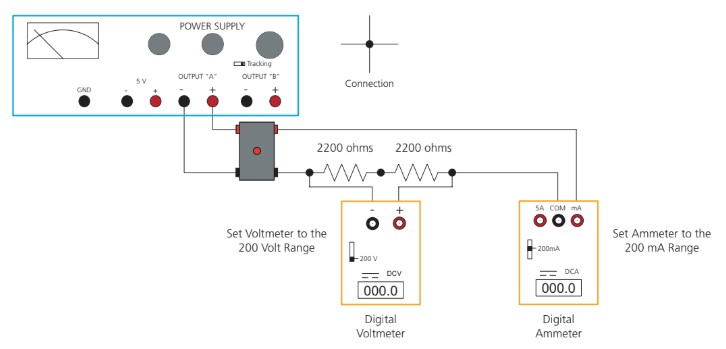
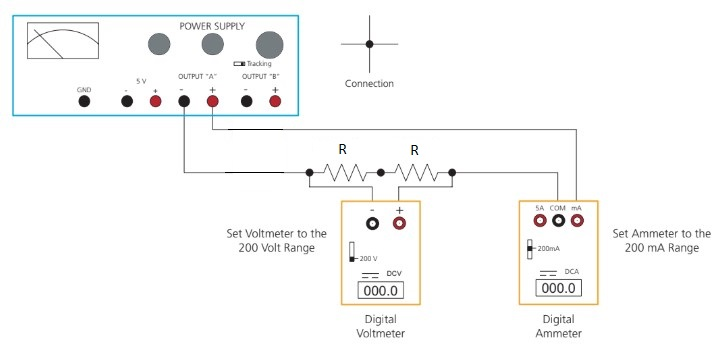
UpdatedOhmsLaw

Changed region(s): [[0.303, 0.3438, 0.3939, 0.5158], [0.5455, 0.4011, 0.6364, 0.4585], [0.4242, 0.4011, 0.5152, 0.4585]]

diff --git a/6BL/OhmsLaw/OhmsLaw.html b/6BL/OhmsLaw/OhmsLaw.html
@@ -28,11 +28,11 @@
 <li>Wire the circuit shown in Figure 1.</li>
 </ol>
 <figure>
-<img src="imgs/Figure1_Part1Circuit.jpg" alt="Figure 1: A 2200 ohm (2.2k ohm) resistor is wired in series with an ammeter and connected to the 0–20 volt power supply. The ammeter will measure the current (mA) flowing through the circuit. The voltmeter is connected across the resistor to measure the voltage drop." /><figcaption>Figure 1: A 2200 ohm (2.2k ohm) resistor is wired in series with an ammeter and connected to the 0–20 volt power supply. The ammeter will measure the current (mA) flowing through the circuit. The voltmeter is connected across the resistor to measure the voltage drop.</figcaption>
+<img src="imgs/Figure1_Part1Circuit.jpg" alt="Figure 1: A R resistor is wired in series with an ammeter and connected to the 0–20 volt power supply. The ammeter will measure the current (mA) flowing through the circuit. The voltmeter is connected across the resistor to measure the voltage drop." /><figcaption>Figure 1: A <strong>R</strong> resistor is wired in series with an ammeter and connected to the 0–20 volt power supply. The ammeter will measure the current (mA) flowing through the circuit. The voltmeter is connected across the resistor to measure the voltage drop.</figcaption>
 </figure>
 <ol start="2" type="a">
 <li><strong>Hint:</strong> Wire the circuit as a loop. Start from the negative terminal of the power supply, continue to the next circuit element, then to the next, and so on and so forth until you arrive back at the positive terminal of the power supply. <strong>Hint:</strong> Current must flow through an ammeter. It must be part of the circuit loop. <strong>Hint:</strong> Voltage is measured across circuit elements. Voltmeters are not part of the circuit loop, but must instead be placed with one terminal on each side of the element you wish to measure. <strong>Note:</strong> The gray box is a power supply protection device. If the red light is on, everything is ok. If it is off, it has broken the circuit for safety. Too much current was being drawn. <strong>Note:</strong> This will reduce the voltage somewhat, always trust the yellow meters, not the read out on the blue power supply. Otherwise, you may treat the output of the gray box as though it was the output of the power supply.</li>
-<li>The volt meter measures the voltage across the 2200Ω resistor. Treat this as your independent (x) axis in this experiment.</li>
+<li>The volt meter measures the voltage across the <strong>R</strong> resistor. Treat this as your independent (x) axis in this experiment.</li>
 <li>The ammeter measures the amount of current flowing through the series circuit. Treat this as your dependent (y) axis in this experiment.</li>
 <li>Adjust the voltage applied to the circuit with the large right-most knob on the power supply, also be sure that the mode switch is in the “tracking” position. You will measure the voltage and corresponding current for 10 data points. Your first current measurement is taken with the voltmeter reading 2V. Increment the voltage by 2 volts until you’ve reached 20 volts. Take a current reading for each voltage.</li>
 <li>Neatly tabulate your data, then plot your data with voltage as the X-axis and current as your Y-axis.</li>
@@ -77,7 +77,7 @@
 <li>Wire the circuit shown in Figure 2.</li>
 </ol>
 <figure>
-<img src="imgs/Figure2_Part2Circuit.jpg" alt="Figure 2: Two 2200 ohm (2.2k ohm) resistors are wired in series with an ammeter and connected to the 0–20 volt power supply. The ammeter will measure the current (mA) flowing through the circuit. The voltmeter is connected across the two resistors to measure the total voltage drop." /><figcaption>Figure 2: Two 2200 ohm (2.2k ohm) resistors are wired in series with an ammeter and connected to the 0–20 volt power supply. The ammeter will measure the current (mA) flowing through the circuit. The voltmeter is connected across the two resistors to measure the total voltage drop.</figcaption>
+<img src="imgs/Figure2_Part2Circuit.jpg" alt="Figure 2: Two R resistors are wired in series with an ammeter and connected to the 0–20 volt power supply. The ammeter will measure the current (mA) flowing through the circuit. The voltmeter is connected across the two resistors to measure the total voltage drop." /><figcaption>Figure 2: Two <strong>R</strong> resistors are wired in series with an ammeter and connected to the 0–20 volt power supply. The ammeter will measure the current (mA) flowing through the circuit. The voltmeter is connected across the two resistors to measure the total voltage drop.</figcaption>
 </figure>
 <ol start="2" type="a">
 <li>The voltmeter is placed across two 2.2K resistors chained end to end. The quantity measured by this device is the voltage across both resistors. Treat this as your independent (x) axis in this experiment.</li>
@@ -116,7 +116,7 @@
 <li>Wire the circuit shown in Figure 3a. Use the 5 volt supply for this part.</li>
 </ol>
 <figure>
-<img src="imgs/Figure3a_Part3Circuit.jpg" alt="Figure 3a. A 2200 ohm (2.2k ohm) resistor is wired in series with the ammeter and connected to the 5 volt fixed terminals of the power supply. The voltmeter is connected across the resistor to measure the voltage drop. The ammeter is in series with the circuit and measures total current in the circuit." /><figcaption>Figure 3a. A 2200 ohm (2.2k ohm) resistor is wired in series with the ammeter and connected to the <strong>5 volt</strong> fixed terminals of the power supply. The voltmeter is connected across the resistor to measure the voltage drop. The ammeter is in series with the circuit and measures total current in the circuit.</figcaption>
+<img src="imgs/Figure3a_Part3Circuit.jpg" alt="Figure 3a. A R resistor is wired in series with the ammeter and connected to the 5 volt fixed terminals of the power supply. The voltmeter is connected across the resistor to measure the voltage drop. The ammeter is in series with the circuit and measures total current in the circuit." /><figcaption>Figure 3a. A <strong>R</strong> resistor is wired in series with the ammeter and connected to the <strong>5 volt</strong> fixed terminals of the power supply. The voltmeter is connected across the resistor to measure the voltage drop. The ammeter is in series with the circuit and measures total current in the circuit.</figcaption>
 </figure>
 </div>
 </div>
@@ -135,7 +135,7 @@
 <li>Wire the circuit shown in Figure 3b. In a series configuration the resistors are hooked end to end with just one path for the current to flow. In Figure 3b, we put the resistors next to each other with common points at each end. The result is two separate paths for current to flow. For obvious reasons, this arrangement is referred to as parallel.</li>
 </ol>
 <figure>
-<img src="imgs/Figure3b_Part3Circuit.jpg" alt="Figure 3b. Two 2200 ohm resistors in parallel are connected in series with the ammeter and connected to the 5 volt fixed terminals of the power supply. The voltmeter is connected across the resistors to measure the voltage drop. The ammeter is in series with the circuit and measures total current in the circuit." /><figcaption>Figure 3b. Two 2200 ohm resistors in parallel are connected in series with the ammeter and connected to the <strong>5 volt</strong> fixed terminals of the power supply. The voltmeter is connected across the resistors to measure the voltage drop. The ammeter is in series with the circuit and measures total current in the circuit.</figcaption>
+<img src="imgs/Figure3b_Part3Circuit.jpg" alt="Figure 3b. Two R resistors in parallel are connected in series with the ammeter and connected to the 5 volt fixed terminals of the power supply. The voltmeter is connected across the resistors to measure the voltage drop. The ammeter is in series with the circuit and measures total current in the circuit." /><figcaption>Figure 3b. Two <strong>R</strong> resistors in parallel are connected in series with the ammeter and connected to the <strong>5 volt</strong> fixed terminals of the power supply. The voltmeter is connected across the resistors to measure the voltage drop. The ammeter is in series with the circuit and measures total current in the circuit.</figcaption>
 </figure>
 </div>
 </div>
@@ -155,7 +155,7 @@
 <li>Wire the circuit shown in Figure 3c. There are now three paths for the current to take.</li>
 </ol>
 <figure>
-<img src="imgs/Figure3c_Part3Circuit.jpg" alt="Figure 3c. Three 2200 ohm resistors in parallel are connected in series with the ammeter and connected to the 5 volt fixed terminals of the power supply. The voltmeter is connected across the resistors to measure the voltage drop. The ammeter is in series with the circuit and measures total current in the circuit." /><figcaption>Figure 3c. Three 2200 ohm resistors in parallel are connected in series with the ammeter and connected to the 5 volt fixed terminals of the power supply. The voltmeter is connected across the resistors to measure the voltage drop. The ammeter is in series with the circuit and measures total current in the circuit.</figcaption>
+<img src="imgs/Figure3c_Part3Circuit.jpg" alt="Figure 3c. Three R resistors in parallel are connected in series with the ammeter and connected to the 5 volt fixed terminals of the power supply. The voltmeter is connected across the resistors to measure the voltage drop. The ammeter is in series with the circuit and measures total current in the circuit." /><figcaption>Figure 3c. Three <strong>R</strong> resistors in parallel are connected in series with the ammeter and connected to the 5 volt fixed terminals of the power supply. The voltmeter is connected across the resistors to measure the voltage drop. The ammeter is in series with the circuit and measures total current in the circuit.</figcaption>
 </figure>
 </div>
 </div>

diff --git a/6BL/OhmsLaw/OhmsLaw.md b/6BL/OhmsLaw/OhmsLaw.md
@@ -11,7 +11,7 @@ During the nineteenth century so many advances were made in understanding the el
 ::: Exercise
 a) Wire the circuit shown in Figure 1.
 
-![Figure 1: A 2200 ohm (2.2k ohm) resistor is wired in series with an ammeter and connected to the 0–20 volt power supply. The ammeter will measure the current (mA) flowing through the circuit. The voltmeter is connected across the resistor to measure the voltage drop.](imgs/Figure1_Part1Circuit.jpg)
+![Figure 1: A **R** resistor is wired in series with an ammeter and connected to the 0–20 volt power supply. The ammeter will measure the current (mA) flowing through the circuit. The voltmeter is connected across the resistor to measure the voltage drop.](imgs/Figure1_Part1Circuit.jpg)
 
 b) **Hint:** Wire the circuit as a loop. Start from the negative terminal of the power supply, continue
 to the next circuit element, then to the next, and so on and so forth until you arrive back at
@@ -25,7 +25,7 @@ If it is off, it has broken the circuit for safety. Too much current was being d
 **Note:** This will reduce the voltage somewhat, always trust the yellow meters, not the read out on
 the blue power supply. Otherwise, you may treat the output of the gray box as though it
 was the output of the power supply.
-c) The volt meter measures the voltage across the 2200Ω resistor. Treat this as your independent (x) axis in this
+c) The volt meter measures the voltage across the **R** resistor. Treat this as your independent (x) axis in this
 experiment.
 d) The ammeter measures the amount of current flowing through the series circuit. Treat this as your dependent (y) axis in this experiment.
 e) Adjust the voltage applied to the circuit with the large right-most knob on the power supply, also be sure that the mode switch is in the “tracking” position. You will measure the voltage and corresponding current for 10 data points. Your first current measurement is taken with the voltmeter reading 2V. Increment the voltage by 2 volts until you’ve reached 20 volts. Take a current reading for each voltage.
@@ -73,7 +73,7 @@ b) What is the current through this resistor when 9V are dropped across it?
 ::: Exercise
 a) Wire the circuit shown in Figure 2.
 
-![Figure 2: Two 2200 ohm (2.2k ohm) resistors are wired in series with an ammeter and connected to the 0–20 volt power supply. The ammeter will measure the current (mA) flowing through the circuit. The voltmeter is connected across the two resistors to measure the total voltage drop.](imgs/Figure2_Part2Circuit.jpg)
+![Figure 2: Two **R** resistors are wired in series with an ammeter and connected to the 0–20 volt power supply. The ammeter will measure the current (mA) flowing through the circuit. The voltmeter is connected across the two resistors to measure the total voltage drop.](imgs/Figure2_Part2Circuit.jpg)
 
 b) The voltmeter is placed across two 2.2K resistors chained end to end. The quantity measured by this device is the
 voltage across both resistors. Treat this as your independent (x) axis in this experiment.
@@ -111,7 +111,7 @@ a)A series circuit has a source voltage of 20V and two resistances of 1.7K and 2
 ::: Exercise
 a) Wire the circuit shown in Figure 3a. Use the 5 volt supply for this part.
 
-![Figure 3a. A 2200 ohm (2.2k ohm) resistor is wired in series with the ammeter and connected to the **5 volt** fixed terminals of the power supply. The voltmeter is connected across the resistor to measure the voltage drop. The ammeter is in series with the circuit and measures total current in the circuit.](imgs/Figure3a_Part3Circuit.jpg)
+![Figure 3a. A **R** resistor is wired in series with the ammeter and connected to the **5 volt** fixed terminals of the power supply. The voltmeter is connected across the resistor to measure the voltage drop. The ammeter is in series with the circuit and measures total current in the circuit.](imgs/Figure3a_Part3Circuit.jpg)
 :::
 
 ::: Question
@@ -121,7 +121,7 @@ a) Measure the voltage and current. Calculate the resistance and compare it to t
 ::: Exercise
 a) Wire the circuit shown in Figure 3b. In a series configuration the resistors are hooked end to end with just one path for the current to flow. In Figure 3b, we put the resistors next to each other with common points at each end. The result is two separate paths for current to flow. For obvious reasons, this arrangement is referred to as parallel.
 
-![Figure 3b. Two 2200 ohm resistors in parallel are connected in series with the ammeter and connected to the **5 volt** fixed terminals of the power supply. The voltmeter is connected across the resistors to measure the voltage drop. The ammeter is in series with the circuit and measures total current in the circuit.](imgs/Figure3b_Part3Circuit.jpg)
+![Figure 3b. Two **R** resistors in parallel are connected in series with the ammeter and connected to the **5 volt** fixed terminals of the power supply. The voltmeter is connected across the resistors to measure the voltage drop. The ammeter is in series with the circuit and measures total current in the circuit.](imgs/Figure3b_Part3Circuit.jpg)
 
 :::
 
@@ -133,7 +133,7 @@ b) What does this imply of the resistance?
 ::: Exercise
 a) Wire the circuit shown in Figure 3c. There are now three paths for the current to take.
 
-![Figure 3c. Three 2200 ohm resistors in parallel are connected in series with the ammeter and connected to the 5 volt fixed terminals of the power supply. The voltmeter is connected across the resistors to measure the voltage drop. The ammeter is in series with the circuit and measures total current in the circuit.](imgs/Figure3c_Part3Circuit.jpg)
+![Figure 3c. Three **R** resistors in parallel are connected in series with the ammeter and connected to the 5 volt fixed terminals of the power supply. The voltmeter is connected across the resistors to measure the voltage drop. The ammeter is in series with the circuit and measures total current in the circuit.](imgs/Figure3c_Part3Circuit.jpg)
 
 :::
 
